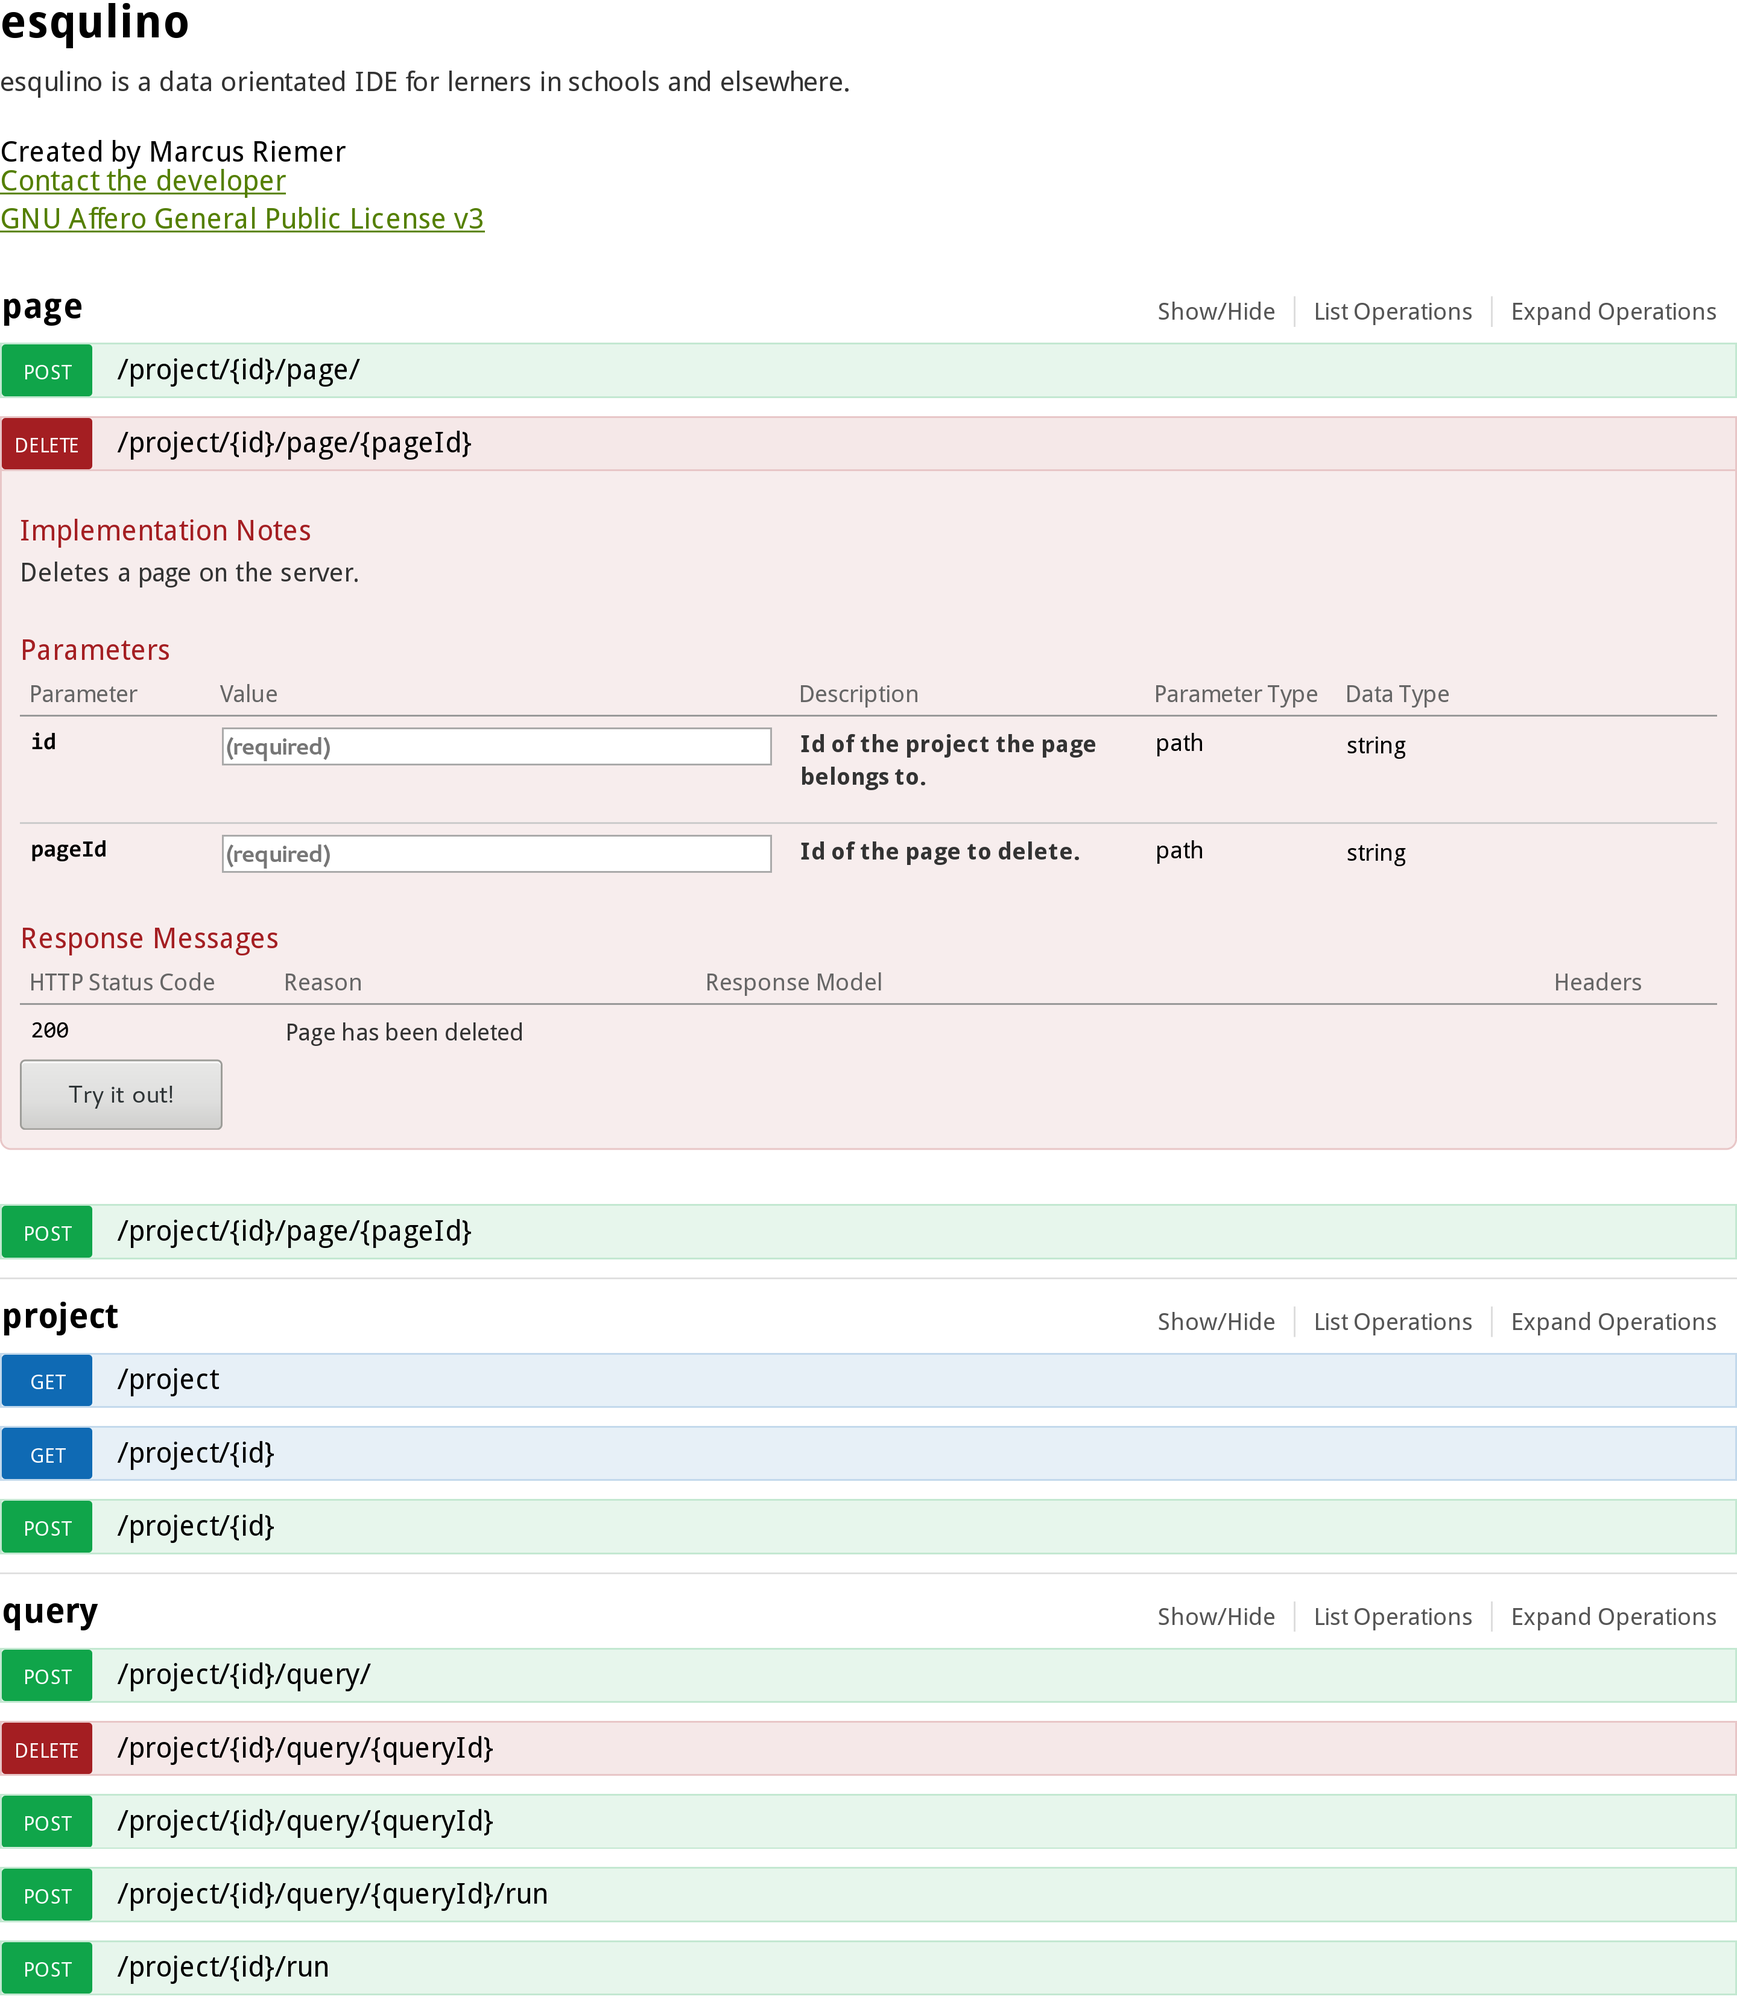
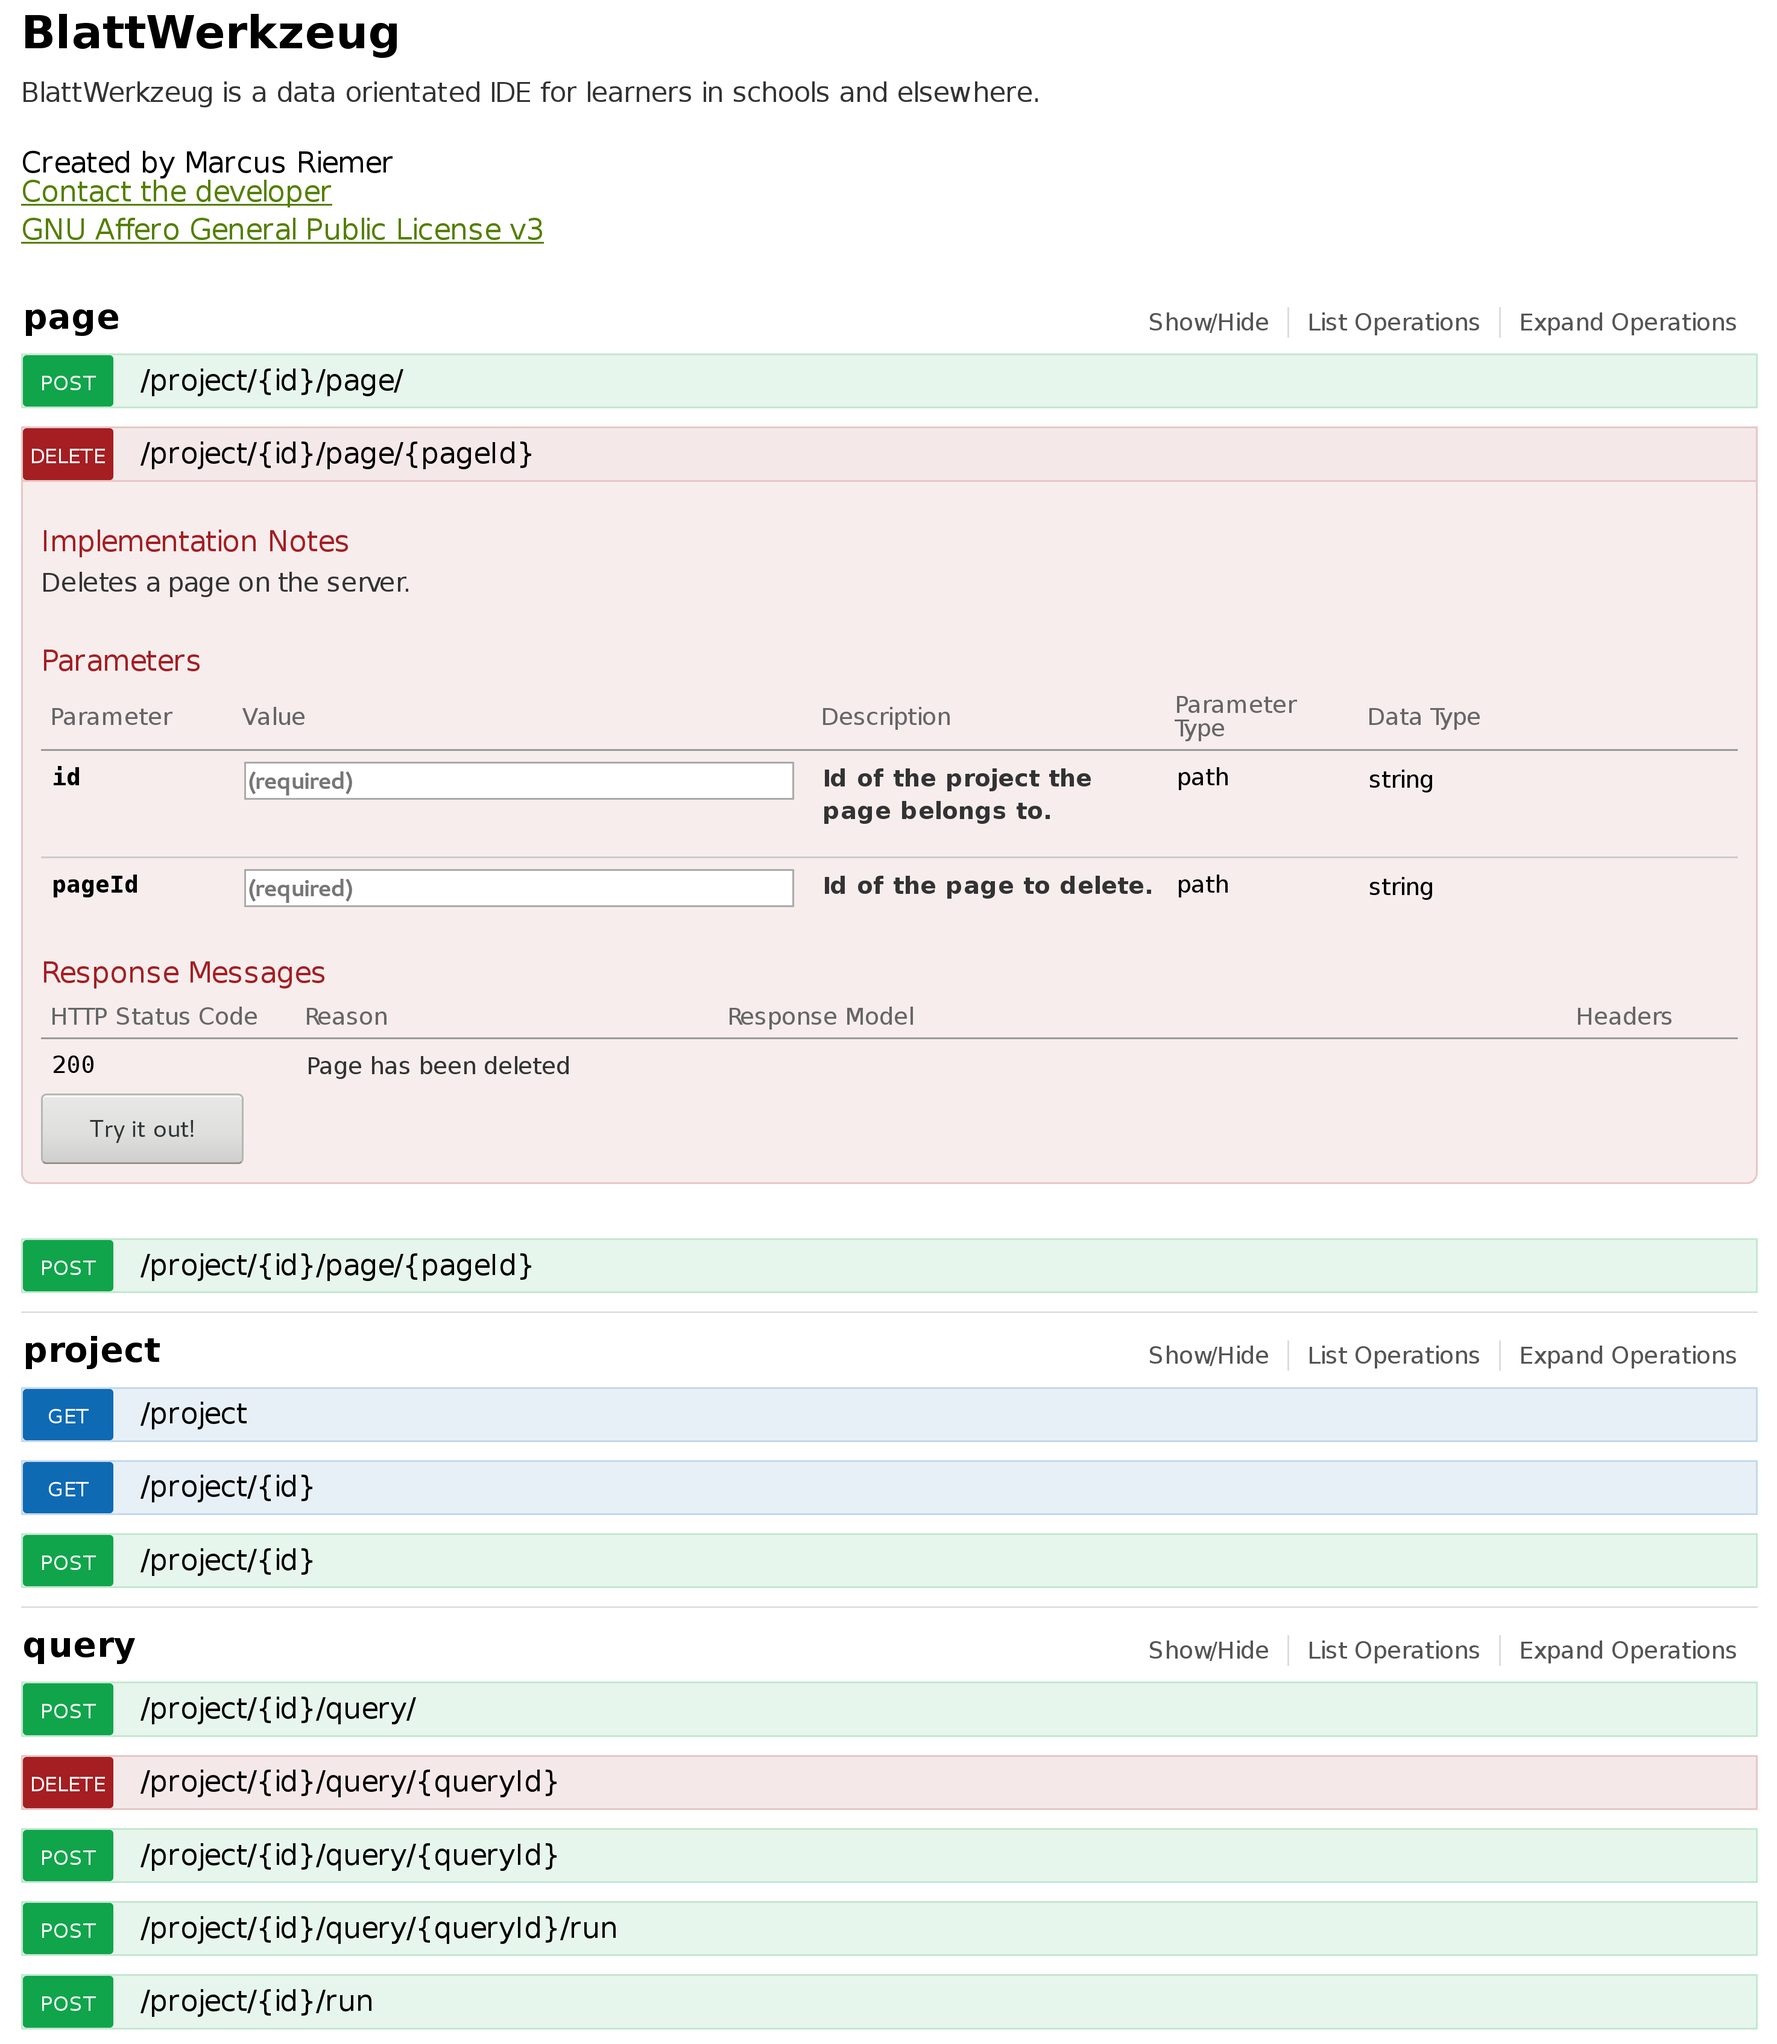
Thesis: Talked about stashed WYSIWYG-Editor

diff --git a/doc/thesis-riemer-concept/kap-4-umsetzung.tex b/doc/thesis-riemer-concept/kap-4-umsetzung.tex
@@ -3,6 +3,8 @@
 
 Dieses Kapitel beschreibt den Implementierungsprozess von \idename{} und erläutert einige technische Entscheidungen. Der gesamte entstandene Quelltext steht unter der \texttt{GNU} Affero General Public License~(\texttt{AGPL})\footnote{\url{https://www.gnu.org/licenses/agpl-3.0.de.html}} und ist in einem öffentlichen Git-Repository einsehbar\footnote{\url{http://blattwerkzeug.de/forward/git-repository}}. In diesem Repository befinden sich ebenfalls die Beispielprojekte aus Anhang \ref{sec:project-examples} und auch der \LaTeX-Quelltext zu dieser Thesis.
 
+Nicht Zweck dieses Kapitels ist die Präsentation von Ergebnissen, daher
+
 \subsection{Client-Server-Architektur}
 \label{sec:implementation-client-server}
 
@@ -21,7 +23,7 @@ Der softwaretechnische Unterbau der Entwicklungsumgebung setzt auf aktuelle Webt
   \label{fig:openapi-query-example}
 \end{figure}
 
-Um die Schnittstelle zwischen diesen beiden Komponenten so transparent wie möglich zu halten, werden diese gemäß der OpenAPI-Spezifikation\footnote{\url{https://openapis.org/}} dokumentiert. Dieses offene Format ermöglicht es, auf eine hilfreiche Auswahl an standardisierten Tools aufzubauen. Zum Beispiel können aus der Spezifikation interaktive Testumgebungen für die Server-Schnittstellen erzeugt werden, Abbildung \ref{fig:openapi-query-example} zeigt ein Beispiel dafür\todo{Screenshot zeigt alten Namen}.
+Um die Schnittstelle zwischen diesen beiden Komponenten so transparent wie möglich zu halten, werden diese gemäß der OpenAPI-Spezifikation\footnote{\url{https://openapis.org/}} dokumentiert. Dieses offene Format ermöglicht es, auf eine hilfreiche Auswahl an standardisierten Tools aufzubauen. Zum Beispiel können aus der Spezifikation interaktive Testumgebungen für die Server-Schnittstellen erzeugt werden, Abbildung \ref{fig:openapi-query-example} zeigt ein Beispiel dafür.
 
 Als primäres Interface für die Kompilierung wird ein \texttt{Makefile} genutzt. Dieses prüft, ob auf dem aktuellen System alle nötigen Abhängigkeiten verfügbar sind und stellt sicher, dass Übersetzungsschritte nur ausgeführt werden, wenn sie tatsächlich notwendig sind. Von den technischen Details der unterschiedlichen Programmierumgebungen aufgrund der unterschiedlichen Programmiersprachen kann so außerdem elegant abstrahiert werden: Ein Programmierer kann sich die exakten Aufrufe der unterschiedlichen Paketmanager zwar anschauen, wird im Normallfall aber nur \texttt{make install-deps} aufrufen.
 
@@ -548,7 +550,7 @@ Praktisch werden Subdomains von vielen Suchmaschinen, sonstigen Angeboten im Int
 
 Darüber hinaus kann unter dieser Voraussetzung jede Webseite davon ausgehen, dass die gesamte Routing-Hierarchie nur ihr gehört. Die Subdomains erlauben also die Nutzung von absoluten Pfadangaben. Insbesondere um Bilder, \texttt{CSS}-Dateien oder JavaScript-Bibliotheken zu verlinken, ist das eine hilfreiche Garantie, welche viele unpraktische Probleme vermeidet.
 
-\subsubsection{Der Rendervorgang}
+\subsubsection{Rendervorgang}
 
 Der wesentliche Inhalt des Rendervorgangs besteht im Sammeln der für die Anzeige notwendigen Daten, wie sie in Kapitel \fullref{sec:page-data-sources} beschrieben worden sind. Ein Großteil dieser Daten kann unmittelbar aus dem Datenmodell herausgelesen werden: Die Ruby-Klassen für Projekte und Seiten verfügen über dezidierte Methoden zur Bereitstellung der Daten ihres Namensraumes (Listing~\ref{lst:server-project-render-data}). Die \texttt{GET}-Daten werden unmittelbar von dem serverseitigen Framework zur Verfügung gestellt.
 
@@ -634,9 +636,21 @@ Zum Start der Entwicklung von \idename{} befand sich Angular 2 gerade in der Ver
 
 \subsubsection{Fehlerhafte Codegenerierung des Typescript-Compilers}
 
-Der verwendete Typescript-Compiler hat zum Zeitpunkt der Anfertigung dieser Arbeit einen bekannten Bug in der Codegenerierung \footnote{\url{https://github.com/Microsoft/TypeScript/issues/4341}}, um den wiederholt herumgearbeitet werden musste. Konkret äussert sich dieser Fehler, wenn die Definition der Oberklasse einer sich davon ableitenden Klasse erst im Nachhinein erfolgt (Listing \ref{lst:ts:class-order-bug}). In diesem Fall kommt es zu keiner Warnung durch den Compiler, sondern zu einem Laufzeitfehler im kompilierten Javascript-Code. Das Beispiel ist an dieser Stelle natürlich besonders plakativ, der Fehler tritt aber in identischer Art und Weise bei komplexen Hierarchien aus \texttt{import}-Anweisungen auf.
+Der verwendete Typescript-Compiler hat zum Zeitpunkt der Anfertigung dieser Arbeit einen bekannten Bug in der Codegenerierung\footnote{\url{https://github.com/Microsoft/TypeScript/issues/4341}}, um den wiederholt herumgearbeitet werden musste. Konkret äussert sich dieser Fehler, wenn die Definition der Oberklasse einer sich davon ableitenden Klasse erst im Nachhinein erfolgt (Listing \ref{lst:ts:class-order-bug}). In diesem Fall kommt es zu keiner Warnung durch den Compiler, sondern zu einem Laufzeitfehler im kompilierten Javascript-Code. Das Beispiel ist an dieser Stelle natürlich besonders plakativ, der Fehler tritt aber in identischer Art und Weise bei komplexen Hierarchien aus \texttt{import}-Anweisungen auf.
 
-\lstinputlisting[language=JavaScript,caption=Falsche Reihenfolge der Klassendefinition, label=lst:ts:class-order-bug]{snippets/class-inheritance-order-bug.ts}
+\lstinputlisting[float=p, language=JavaScript, caption=Falsche Reihenfolge der Klassendefinition, label=lst:ts:class-order-bug]{snippets/class-inheritance-order-bug.ts}
+
+\subsubsection{Verworfene Implementierung eines reinen WYSIWYG-Seiten-Editors}
+
+Vor dem im aktuellen Prototypen verwendeten Block-Editor (zu sehen auf zum Beispiel Abbildung~\ref{fig:screen-ui-editor-block} oder im Anhang \fullref{sec:project-examples}) wurde noch ein reiner WYSIWYG-Editor entwickelt. Dieser ist in der Lage beliebige Layouts aus Zeilen und Spalten mit einer akkuraten Vorschau zu versehen. Der nächste Schritt in der Implementierung wäre neben der Vorschau von Knöpfen und Eingabefeldern die Darstellung der Datentabellen gewesen (Abbildung~\ref{fig:discarded-wysiwyg-page-editor}).
+
+Die Weiterentwicklung wurde dann jedoch nach einem Gespräch mit Dr. Frank Huch in einer gemeinsamen Entscheidung gestoppt: Dieser Editor wäre eine weitere Insellösung gewesen, mit der die Lernenden zwar hätten schnell erste Erfolge vorweisen können, dabei die technischen Hintergründe jedoch nicht verstanden hätten. So weit sollte die "`Motivation durch praktisch vorzeigbare Ergebnisse"' dann doch nicht auf die Spitze getrieben werden, schließlich handelt es sich bei \idename{} in erster Linie immer noch um ein Lehrprogramm. Vollständig Vergebens waren die investierte Zeit dennoch nicht: Das entwickelte Datenmodell für die Seiten konnte beibehalten werden, der serverseitige Code zum Rendern ebenfalls.
+
+\begin{figure}[p]
+  \centering \includegraphics[width=\textwidth]{images/screenshots/20160731/esqulino-editor-page-keyboard-input-partial}
+  \caption{Entwickleransicht des verworfenen WYSIWYG-Seiten-Editors}
+  \label{fig:discarded-wysiwyg-page-editor}
+\end{figure}
 
 %%% Local Variables:
 %%% mode: latex

diff --git a/doc/thesis-riemer-concept/kap-3-anforderung.tex b/doc/thesis-riemer-concept/kap-3-anforderung.tex
@@ -1085,7 +1085,7 @@ Für dieses Kapitel werden einige denkbare Ansätze auf dem beschriebenen Koordi
   Da die einfachste Implementierung dieser Variante schon fast durch ein einfaches \texttt{HTML}-\texttt{<textarea>}-Element bereitgestellt werden kann, ist die technische Umsetzung vergleichsweise trivial. Die unterstützte Bandbreite an Bedienelementen ist grundsätzlich beliebig, Drag \& Drop kommt nicht vor. Anders als bei Block- oder WYSIWYG-Editoren müssen daher keine speziellen Komponenten für einzelne Bedienelemente programmiert werden. Die textuelle Darstellung von \texttt{HTML} und Liquid fungiert als die denkbar allgemeinste Schnittstelle.  
 \end{description}
 
-Eine detaillierte Betrachtung dieser unterschiedlichen Ansätze, also zum Beispiel die Diskussion der Erscheinungsbilder von individuellen Komponenten im Editor, wäre im Rahmen dieser Arbeit leider zu umfangreich. Außerdem ist fraglich, ob sich die Qualität von Bedienkonzepten in einer theoretischen Diskussion gut beurteilen lassen würde. Im Sinne der prototypischen Entwicklung wird im weiteren Verlauf also vor allem Wert auf die Implementierung der beiden wesentlichen Visualisierungen gelegt: WYSIWYG und eine Blockdarstellung\todo{Klar warum das die wesentlichen sind?}.
+Eine detaillierte Betrachtung dieser unterschiedlichen Ansätze, also zum Beispiel die Diskussion der Erscheinungsbilder von individuellen Komponenten im Editor, wäre im Rahmen dieser Arbeit leider zu umfangreich. Außerdem ist fraglich, ob sich die Qualität von Bedienkonzepten in einer theoretischen Diskussion gut beurteilen lassen würde. Im Sinne der prototypischen Entwicklung wird im weiteren Verlauf also vor allem Wert auf die Implementierung der beiden weiter verfolgten Visualisierungskonzepte gelegt: WYSIWYG und eine Blockdarstellung.
 
 \subsubsection{Grundsätzlicher Aufbau}
 \label{sec:design-ui-editor}
@@ -1121,23 +1121,23 @@ Um Eigenschaften von Bedienelementen auch ohne spezielle Komponenten editieren z
 Sofern möglich werden dabei identische Eigenschaften bei unterschiedlichen Bedienelementen auch identisch angeordnet. Eingabeelemente für Formulare (\fullref{fig:sidebar-property-editor-input} \& \fullref{fig:sidebar-property-editor-select}) fragen immer zuerst nach dem \texttt{name}-Attribut ("`Eingabename"') und dem dargestellten Titel des editierten Elements.
 
 \begin{figure}[p]
-  \begin{subfigure}[b]{0.45\textwidth}
+  \begin{subfigure}[b]{0.4\textwidth}
     \includegraphics[width=\textwidth-2pt, frame]{images/screenshots/20161019/editor-page-sidebar-input}
     \caption{Eingabe}
     \label{fig:sidebar-property-editor-input}
   \end{subfigure}\hfill
-  \begin{subfigure}[b]{0.45\textwidth}
+  \begin{subfigure}[b]{0.4\textwidth}
     \includegraphics[width=\textwidth-2pt, frame]{images/screenshots/20161019/editor-page-sidebar-select}
     \caption{Auswahl}
     \label{fig:sidebar-property-editor-select}
   \end{subfigure}
 
-  \begin{subfigure}[b]{0.45\textwidth}
+  \begin{subfigure}[b]{0.4\textwidth}
     \includegraphics[width=\textwidth-2pt, frame]{images/screenshots/20161019/editor-page-sidebar-link}
     \caption{Link}
     \label{fig:sidebar-property-editor-link}
   \end{subfigure}\hfill
-  \begin{subfigure}[b]{0.45\textwidth}
+  \begin{subfigure}[b]{0.4\textwidth}
     \includegraphics[width=\textwidth-2pt, frame]{images/screenshots/20161019/editor-page-sidebar-table}
     \caption{Tabelle}
     \label{fig:sidebar-property-editor-table}
